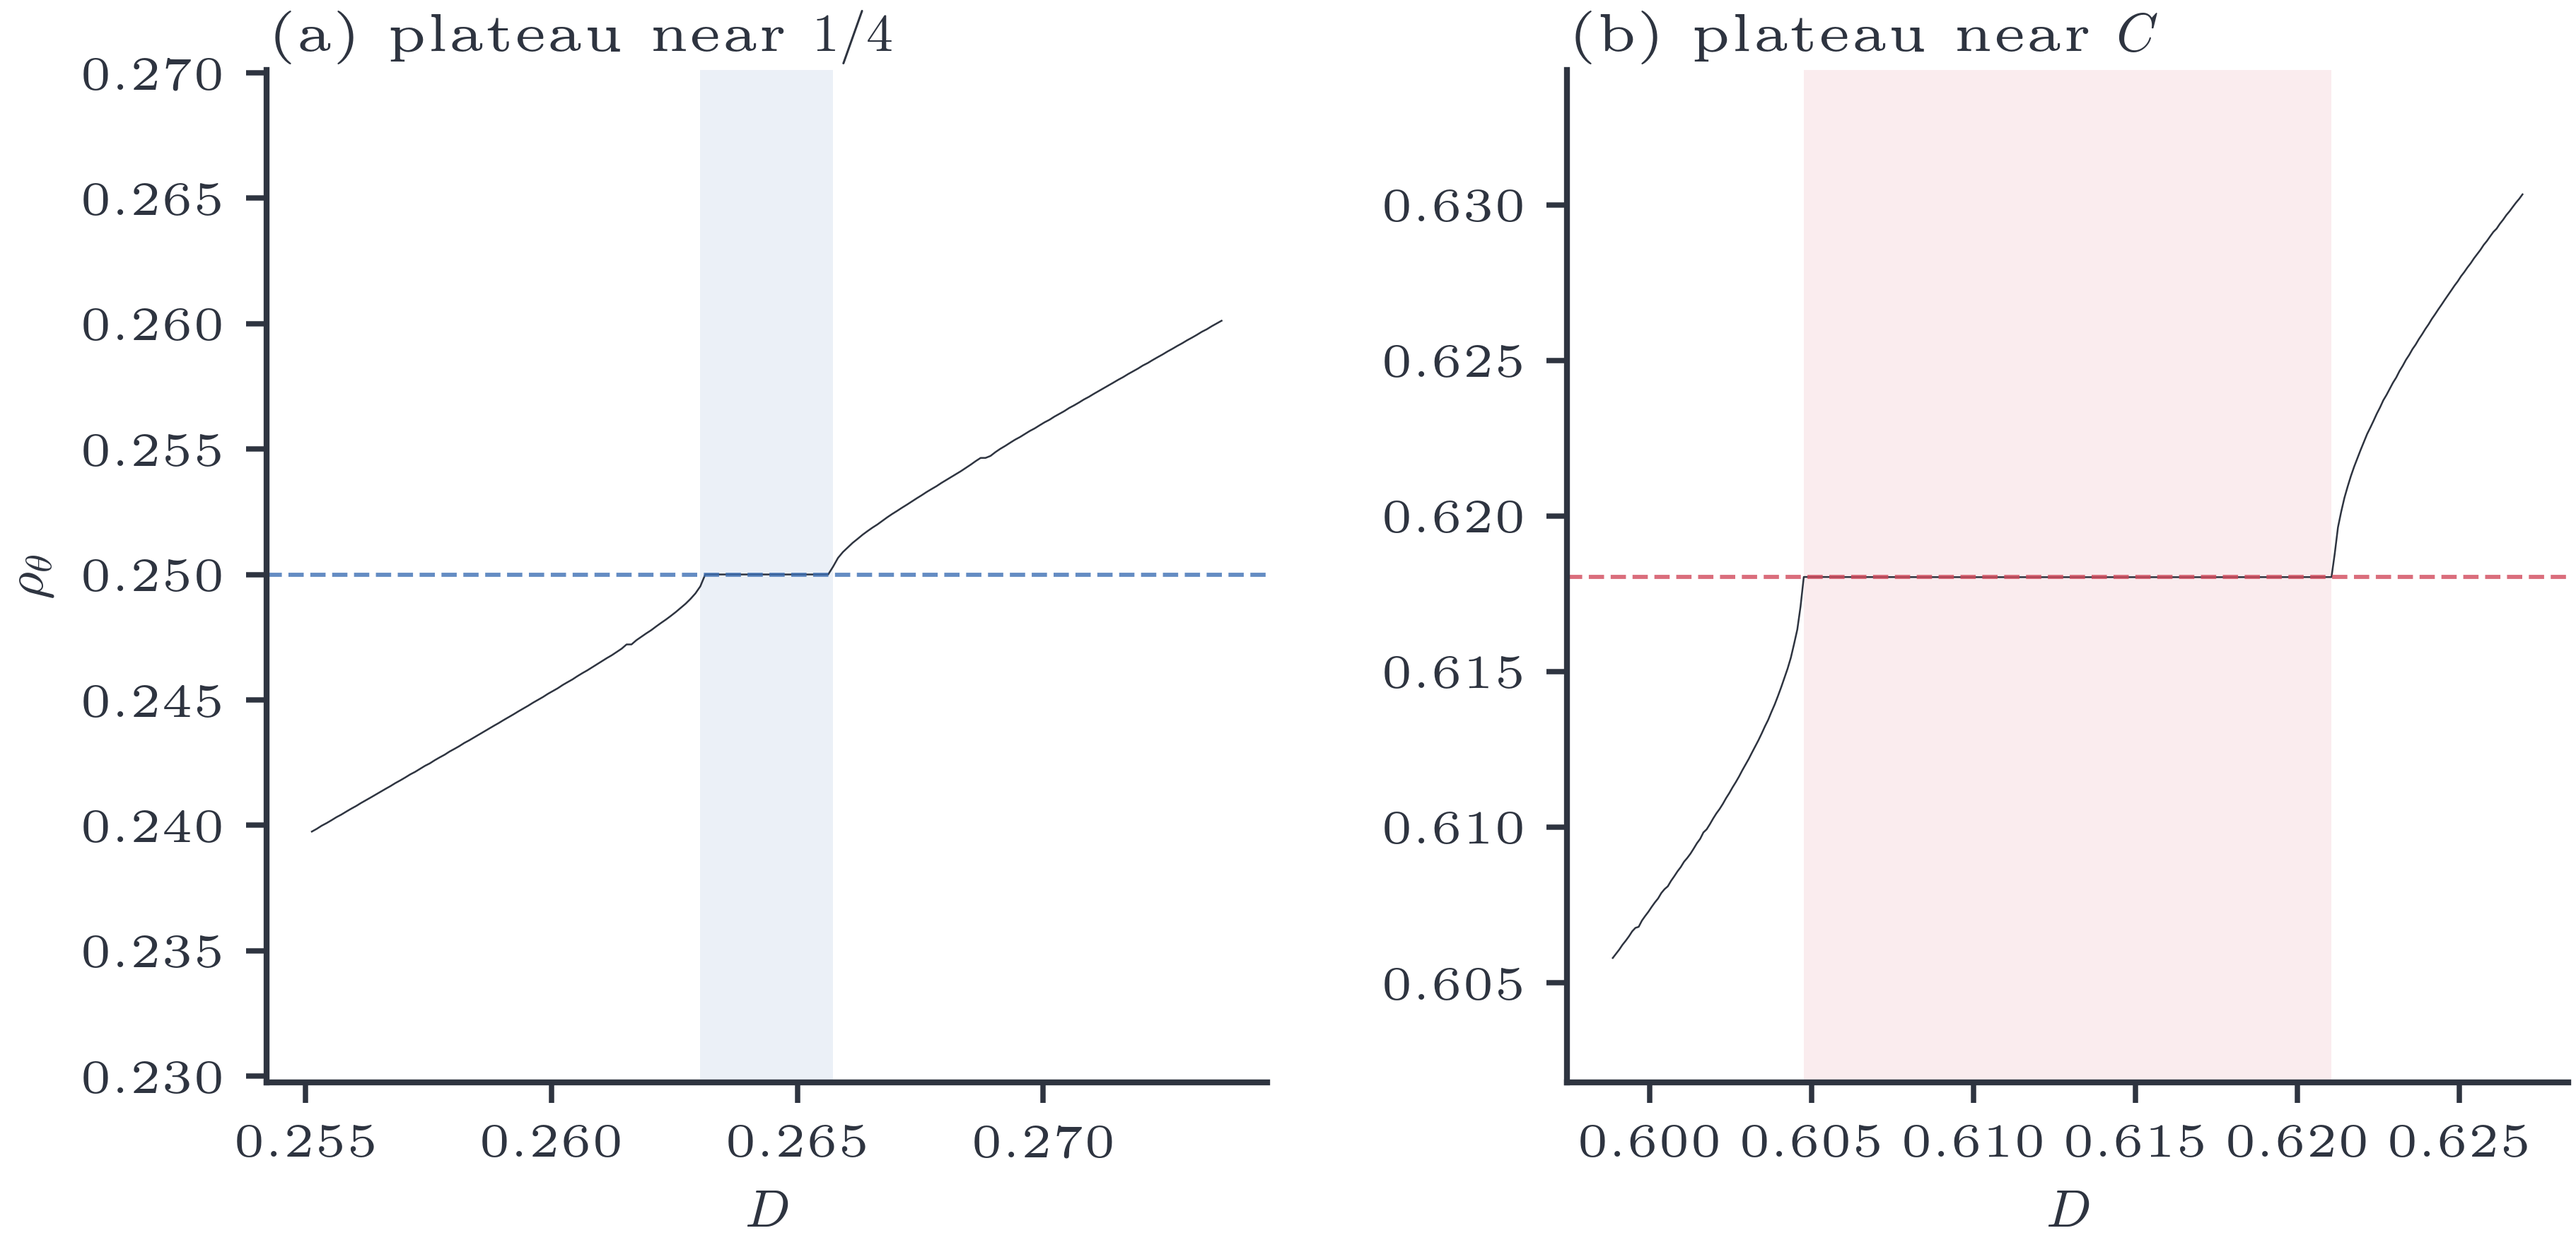
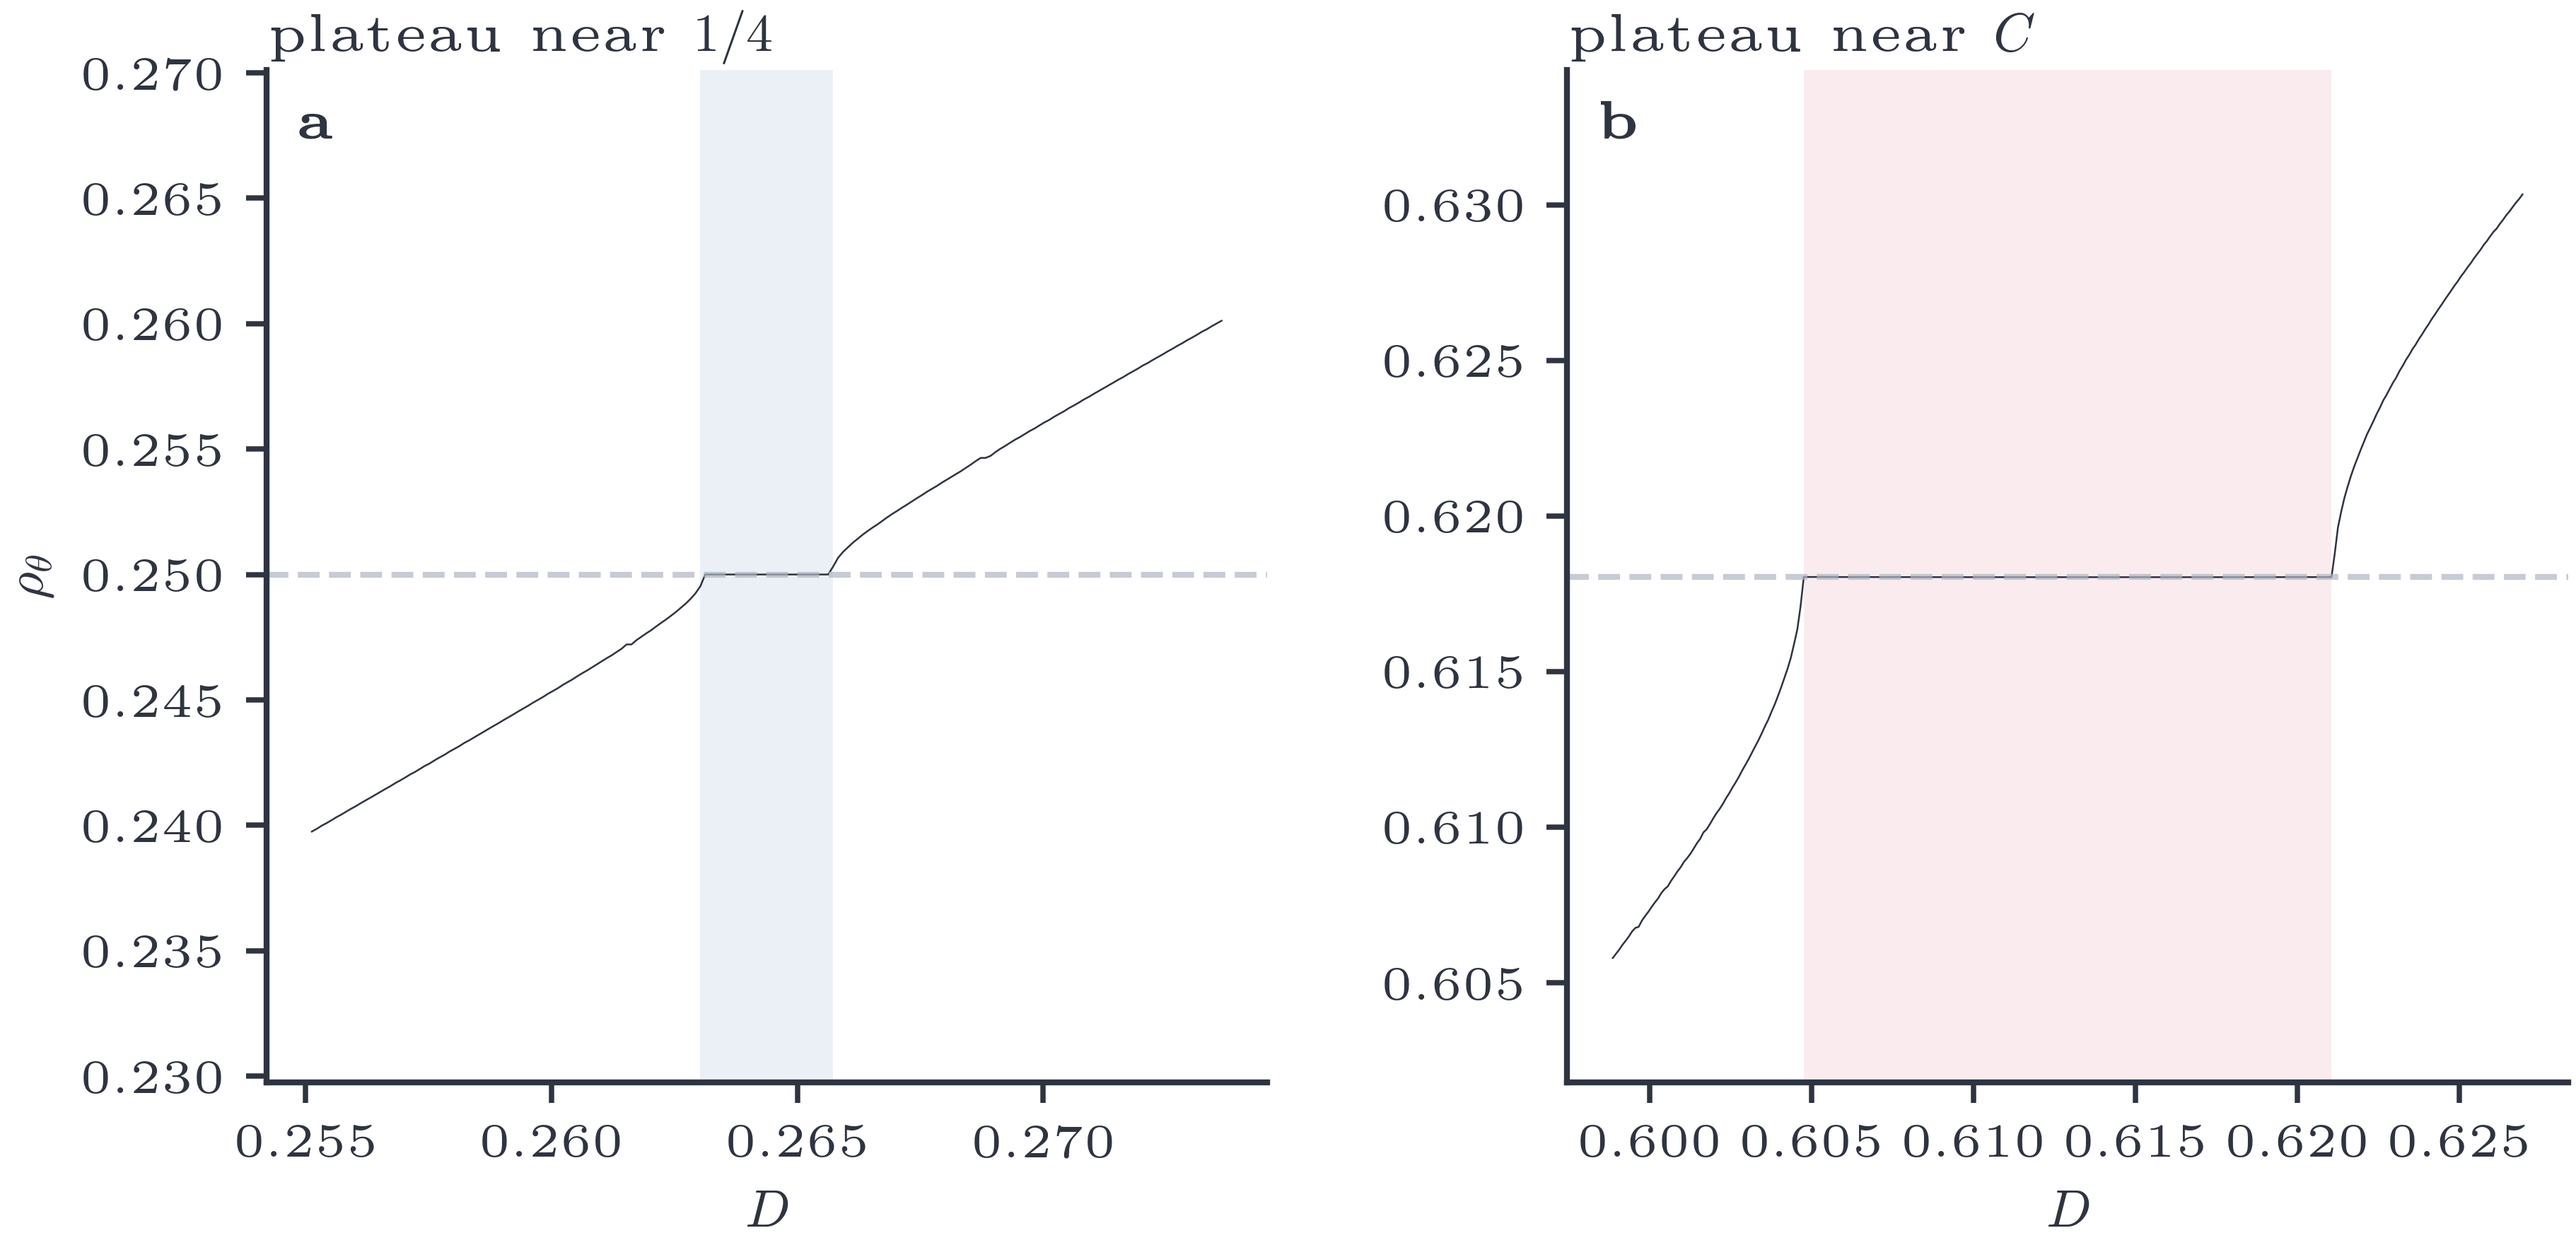
style(sec06): apply figure grammar — lyap colours, panel labels, density colorbars
coupled_delayed.py: lambda_1/2/3 -> lyap_color, grey zero line, (a)(b)(c) labels,
visitation-density colorbars on the hexbin xz panels. modulated_circle.py:
double_staircase keeps accent zoom bands + clean grey diagonal; zoom panels get
(a)/(b) labels and grey reference lines. Presentation only; npz unchanged.

diff --git a/src/dynachaos/maps/modulated_circle.py b/src/dynachaos/maps/modulated_circle.py
@@ -173,6 +173,7 @@ def plot(data):
             fontsize=spec.legend_size - 0.3,
         )
 
+    # Rigid-rotation reference rho_theta = D (grey dashed diagonal).
     ax.plot(D, D, color=COLORS["grey"], linestyle="--", lw=0.75, alpha=0.7)
     ax.plot(D, rho_theta, color=COLORS["black"], linestyle="-", lw=0.9, rasterized=True)
     ax.set_xlabel(r"bare frequency $D$")
@@ -214,7 +215,14 @@ def plot_zoom(data):
     """Two-panel zoom into different D windows showing rho_theta staircase detail."""
     import matplotlib.pyplot as plt
 
-    from dynachaos.utils.style import COLORS, apply_axes_polish, figure_spec, setup
+    from dynachaos.utils.style import (
+        COLORS,
+        apply_axes_polish,
+        figure_spec,
+        panel_label,
+        reference_line,
+        setup,
+    )
 
     setup()
 
@@ -241,11 +249,12 @@ def plot_zoom(data):
     mask1 = (D >= window1[0] - pad1) & (D <= window1[1] + pad1)
     rt1 = rho_theta[mask1]
     ax1.plot(D[mask1], rt1, color=COLORS["black"], lw=0.3, rasterized=True)
-    ax1.axhline(0.25, color=COLORS["blue"], lw=0.7, ls="--", alpha=0.8)
+    reference_line(ax1, 0.25, axis="y")
     ax1.axvspan(window1[0], window1[1], color=COLORS["blue"], alpha=0.10, lw=0.0)
     ax1.set_xlabel(r"$D$")
     ax1.set_ylabel(r"$\rho_\theta$")
-    ax1.set_title(r"(a) plateau near $1/4$", loc="left")
+    ax1.set_title(r"plateau near $1/4$", loc="left")
+    panel_label(ax1, "a")
     if rt1.size > 0:
         ax1.set_ylim(rt1.min() - 0.01, rt1.max() + 0.01)
 
@@ -254,10 +263,11 @@ def plot_zoom(data):
     mask2 = (D >= window2[0] - pad2) & (D <= window2[1] + pad2)
     rt2 = rho_theta[mask2]
     ax2.plot(D[mask2], rt2, color=COLORS["black"], lw=0.3, rasterized=True)
-    ax2.axhline(C_GOLDEN, color=COLORS["red"], lw=0.7, ls="--", alpha=0.8)
+    reference_line(ax2, C_GOLDEN, axis="y")
     ax2.axvspan(window2[0], window2[1], color=COLORS["red"], alpha=0.10, lw=0.0)
     ax2.set_xlabel(r"$D$")
-    ax2.set_title(r"(b) plateau near $C$", loc="left")
+    ax2.set_title(r"plateau near $C$", loc="left")
+    panel_label(ax2, "b")
     if rt2.size > 0:
         ax2.set_ylim(rt2.min() - 0.004, rt2.max() + 0.004)
 

diff --git a/src/dynachaos/maps/coupled_delayed.py b/src/dynachaos/maps/coupled_delayed.py
@@ -165,6 +165,9 @@ def plot_lyapunov(data):
         apply_axes_polish,
         figure_spec,
         finalize_legend,
+        lyap_color,
+        panel_label,
+        reference_line,
         setup,
     )
 
@@ -185,13 +188,14 @@ def plot_lyapunov(data):
         ax = axes[idx]
         spectra = data[f"eps_{eps}_spectra"]
         for k in range(3):
-            ax.plot(DB, spectra[:, k], lw=0.9, label=rf"$\lambda_{k + 1}$")
-        ax.axhline(0, color=COLORS["red"], lw=0.7, ls="--")
+            ax.plot(DB, spectra[:, k], color=lyap_color(k), lw=0.9, label=rf"$\lambda_{k + 1}$")
+        reference_line(ax, 0, axis="y")
         if np.isclose(eps, 5e-3):
             for db in gallery_db:
                 ax.axvline(db, color=COLORS["grey"], lw=0.45, alpha=0.3)
         ax.set_xlabel(r"$D_B$")
         ax.set_title(rf"$\varepsilon = {eps}$", loc="left")
+        panel_label(ax, chr(97 + idx))
         apply_axes_polish(ax, kind="grid", title_loc="left", grid=False)
         if idx == 0:
             ax.set_ylabel("Lyapunov exponent")
@@ -217,8 +221,10 @@ def plot_projections(data):
     from dynachaos.utils.style import (
         CMAP_SEQUENTIAL,
         COLORS,
+        add_field_colorbar,
         apply_axes_polish,
         figure_spec,
+        panel_label,
         setup,
     )
 
@@ -260,7 +266,7 @@ def plot_projections(data):
         elif mode == "points":
             ax.scatter(xz[:, 0], xz[:, 1], s=2.1, c=COLORS["black"], alpha=0.9, linewidths=0)
         else:
-            ax.hexbin(
+            density = ax.hexbin(
                 xz[:, 0],
                 xz[:, 1],
                 gridsize=60,
@@ -270,7 +276,9 @@ def plot_projections(data):
                 linewidths=0.0,
                 rasterized=True,
             )
+            add_field_colorbar(fig, density, ax, label="visitation density")
         ax.set_title(f"$D_B = {DB:.3f}$\n{labels[idx]}", loc="left")
+        panel_label(ax, chr(97 + idx))
         if idx >= 3:
             ax.set_xlabel("$x$")
         else:
